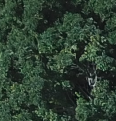
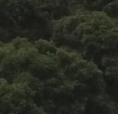
corrección tilings

diff --git a/index.html b/index.html
@@ -120,32 +120,33 @@
 
 <svg id="elsvg" xmlns="http://www.w3.org/2000/svg" xmlns:xlink="http://www.w3.org/1999/xlink" width="100%" height="365pt" viewBox="0 0 345 365" version="1.1">
 <defs>
+<!---> IMAGE WIDTH Y HEIGHT DEBEN COINCIDIR CON LAS DE LA FOTO </--->
   <pattern id="white" patternUnits="userSpaceOnUse" width="100" height="100">
-    <image href="white.png" x="0" y="0" width="120" height="120" />
+    <image href="white.png" x="0" y="0" width="50" height="50" /> 
   </pattern>
     <pattern id="cafesombra" patternUnits="userSpaceOnUse" width="100" height="100">
-    <image href="cafesombra.png" x="0" y="0" width="120" height="120" />
+    <image href="cafesombra.png" x="0" y="0" width="118" height="114" />
   </pattern>
     <pattern id="cafesol" patternUnits="userSpaceOnUse" width="100" height="100">
-    <image href="cafesol.png" x="0" y="0" width="120" height="120" />
+    <image href="cafesol.png" x="0" y="0" width="108" height="110" />
   </pattern>
     <pattern id="comercial" patternUnits="userSpaceOnUse" width="100" height="100">
-    <image href="comercial.png" x="0" y="0" width="120" height="120" />
+    <image href="comercial.png" x="0" y="0" width="196" height="189" />
   </pattern>
-    <pattern id="autoabasto" patternUnits="userSpaceOnUse" width="100" height="100">
-    <image href="autoabasto.png" x="0" y="0" width="120" height="120" />
+    <pattern id="autoabasto" patternUnits="userSpaceOnUse" width="90" height="90">
+    <image href="autoabasto.png" x="0" y="0" width="97" height="93" />
   </pattern>
 </defs>
 
 
-    <path id="chocuilo" style="fill:url(#white);stroke-width:3;stroke-linecap:round;stroke-linejoin:round;stroke:rgb(50%,50%,50%);stroke-opacity:1;stroke-miterlimit:10;" d="M 143.871094 233.265625 L 115.1875 216.703125 L 115.1875 183.582031 L 143.871094 167.019531 L 172.558594 183.582031 L 172.558594 216.703125 Z M 143.871094 233.265625 " onclick = "myFunction(this)" />
-    <path style="fill:url(#white);stroke-width:3;stroke-linecap:round;stroke-linejoin:round;stroke:rgb(50%,50%,50%);stroke-opacity:1;stroke-miterlimit:10;" d="M 143.871094 133.898438 L 115.1875 117.335938 L 115.1875 84.214844 L 143.871094 67.652344 L 172.558594 84.214844 L 172.558594 117.335938 Z M 143.871094 133.898438 " onclick = "myFunction(this)"/>
-    <path style="fill:url(#white);stroke-width:3;stroke-linecap:round;stroke-linejoin:round;stroke:rgb(50%,50%,50%);stroke-opacity:1;stroke-miterlimit:10;" d="M 172.558594 282.949219 L 143.871094 266.386719 L 143.871094 233.265625 L 172.558594 216.703125 L 201.242188 233.265625 L 201.242188 266.386719 Z M 172.558594 282.949219 " onclick = "myFunction(this)"/>
-    <path style="fill:url(#white);stroke-width:3;stroke-linecap:round;stroke-linejoin:round;stroke:rgb(50%,50%,50%);stroke-opacity:1;stroke-miterlimit:10;" d="M 172.558594 183.582031 L 143.871094 167.019531 L 143.871094 133.898438 L 172.558594 117.335938 L 201.242188 133.898438 L 201.242188 167.019531 Z M 172.558594 183.582031 " onclick = "myFunction(this)"/>
-    <path style="fill:url(#white);stroke-width:3;stroke-linecap:round;stroke-linejoin:round;stroke:rgb(50%,50%,50%);stroke-opacity:1;stroke-miterlimit:10;" d="M 201.242188 233.265625 L 172.558594 216.703125 L 172.558594 183.582031 L 201.242188 167.019531 L 229.925781 183.582031 L 229.925781 216.703125 Z M 201.242188 233.265625 " onclick = "myFunction(this)"/>
-    <path style="fill:url(#white);stroke-width:3;stroke-linecap:round;stroke-linejoin:round;stroke:rgb(50%,50%,50%);stroke-opacity:1;stroke-miterlimit:10;" d="M 201.242188 133.898438 L 172.558594 117.335938 L 172.558594 84.214844 L 201.242188 67.652344 L 229.925781 84.214844 L 229.925781 117.335938 Z M 201.242188 133.898438 " onclick = "myFunction(this)"/>
-    <path style="fill:url(#white);stroke-width:3;stroke-linecap:round;stroke-linejoin:round;stroke:rgb(50%,50%,50%);stroke-opacity:1;stroke-miterlimit:10;" d="M 229.925781 282.949219 L 201.242188 266.386719 L 201.242188 233.265625 L 229.925781 216.703125 L 258.613281 233.265625 L 258.613281 266.386719 Z M 229.925781 282.949219 " onclick = "myFunction(this)"/>
-    <path style="fill:url(#white);stroke-width:3;stroke-linecap:round;stroke-linejoin:round;stroke:rgb(50%,50%,50%);stroke-opacity:1;stroke-miterlimit:10;" d="M 229.925781 183.582031 L 201.242188 167.019531 L 201.242188 133.898438 L 229.925781 117.335938 L 258.613281 133.898438 L 258.613281 167.019531 Z M 229.925781 183.582031 " onclick = "myFunction(this)"/>
+    <path id="chocuilo" style="fill:url(#white);stroke-width:3;stroke-linecap:round;stroke-linejoin:round;stroke:rgb(0%,0%,0%);stroke-opacity:1;stroke-miterlimit:10;" d="M 143.871094 233.265625 L 115.1875 216.703125 L 115.1875 183.582031 L 143.871094 167.019531 L 172.558594 183.582031 L 172.558594 216.703125 Z M 143.871094 233.265625 " onclick = "myFunction(this)" />
+    <path style="fill:url(#white);stroke-width:3;stroke-linecap:round;stroke-linejoin:round;stroke:rgb(0%,0%,0%);stroke-opacity:1;stroke-miterlimit:10;" d="M 143.871094 133.898438 L 115.1875 117.335938 L 115.1875 84.214844 L 143.871094 67.652344 L 172.558594 84.214844 L 172.558594 117.335938 Z M 143.871094 133.898438 " onclick = "myFunction(this)"/>
+    <path style="fill:url(#white);stroke-width:3;stroke-linecap:round;stroke-linejoin:round;stroke:rgb(0%,0%,0%);stroke-opacity:1;stroke-miterlimit:10;" d="M 172.558594 282.949219 L 143.871094 266.386719 L 143.871094 233.265625 L 172.558594 216.703125 L 201.242188 233.265625 L 201.242188 266.386719 Z M 172.558594 282.949219 " onclick = "myFunction(this)"/>
+    <path style="fill:url(#white);stroke-width:3;stroke-linecap:round;stroke-linejoin:round;stroke:rgb(0%,0%,0%);stroke-opacity:1;stroke-miterlimit:10;" d="M 172.558594 183.582031 L 143.871094 167.019531 L 143.871094 133.898438 L 172.558594 117.335938 L 201.242188 133.898438 L 201.242188 167.019531 Z M 172.558594 183.582031 " onclick = "myFunction(this)"/>
+    <path style="fill:url(#white);stroke-width:3;stroke-linecap:round;stroke-linejoin:round;stroke:rgb(0%,0%,0%);stroke-opacity:1;stroke-miterlimit:10;" d="M 201.242188 233.265625 L 172.558594 216.703125 L 172.558594 183.582031 L 201.242188 167.019531 L 229.925781 183.582031 L 229.925781 216.703125 Z M 201.242188 233.265625 " onclick = "myFunction(this)"/>
+    <path style="fill:url(#white);stroke-width:3;stroke-linecap:round;stroke-linejoin:round;stroke:rgb(0%,0%,0%);stroke-opacity:1;stroke-miterlimit:10;" d="M 201.242188 133.898438 L 172.558594 117.335938 L 172.558594 84.214844 L 201.242188 67.652344 L 229.925781 84.214844 L 229.925781 117.335938 Z M 201.242188 133.898438 " onclick = "myFunction(this)"/>
+    <path style="fill:url(#white);stroke-width:3;stroke-linecap:round;stroke-linejoin:round;stroke:rgb(0%,0%,0%);stroke-opacity:1;stroke-miterlimit:10;" d="M 229.925781 282.949219 L 201.242188 266.386719 L 201.242188 233.265625 L 229.925781 216.703125 L 258.613281 233.265625 L 258.613281 266.386719 Z M 229.925781 282.949219 " onclick = "myFunction(this)"/>
+    <path style="fill:url(#white);stroke-width:3;stroke-linecap:round;stroke-linejoin:round;stroke:rgb(0%,0%,0%);stroke-opacity:1;stroke-miterlimit:10;" d="M 229.925781 183.582031 L 201.242188 167.019531 L 201.242188 133.898438 L 229.925781 117.335938 L 258.613281 133.898438 L 258.613281 167.019531 Z M 229.925781 183.582031 " onclick = "myFunction(this)"/>
 
 </svg>
 
